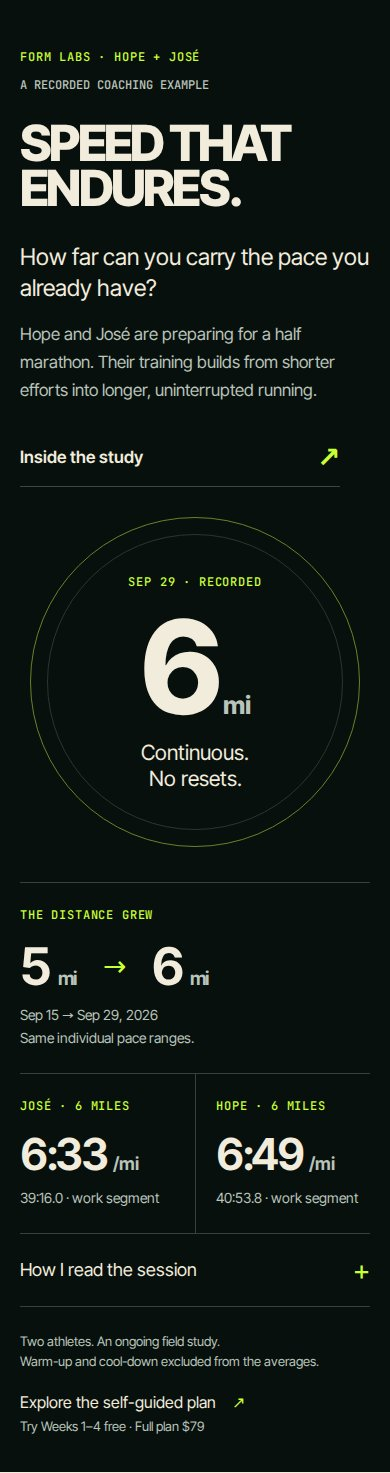
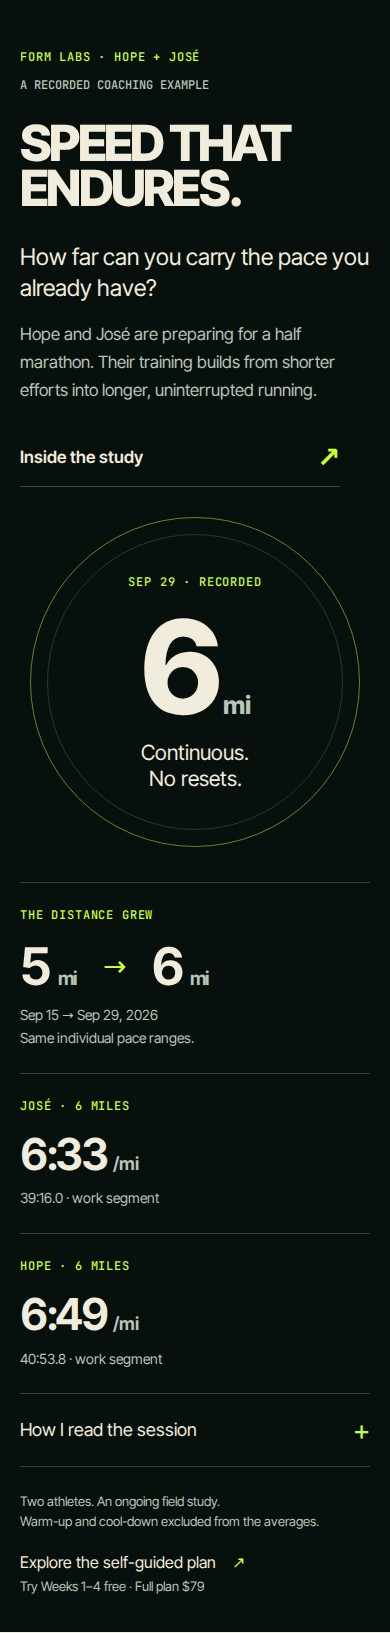
Keep study records readable at enlarged text sizes

diff --git a/index.html b/index.html
@@ -185,7 +185,7 @@
 <section class="home-study" id="study-preview" aria-labelledby="home-study-title">
 <div class="wrap">
 <div class="study-top"><p class="study-label">FORM LABS · HOPE + JOSÉ</p><p class="study-label study-date">A recorded coaching example</p></div>
-<div class="study-main"><div class="study-intro"><h2 id="home-study-title">SPEED THAT<br>ENDURES.</h2><p>How far can you carry the pace you already have?</p><p class="study-summary">Hope and José are preparing for a half marathon. Their training builds from shorter efforts into longer, uninterrupted running.</p><a class="study-link" href="/labs/speed-that-endures/">Inside the study <span aria-hidden="true">↗</span></a></div>
+<div class="study-main"><div class="study-intro"><h2 id="home-study-title">SPEED THAT<br>EN&shy;DURES.</h2><p>How far can you carry the pace you already have?</p><p class="study-summary">Hope and José are preparing for a half marathon. Their training builds from shorter efforts into longer, uninterrupted running.</p><a class="study-link" href="/labs/speed-that-endures/">Inside the study <span aria-hidden="true">↗</span></a></div>
 <div class="study-distance"><div class="distance-ring"><p class="study-label">SEP 29 · RECORDED</p><p class="distance-number">6<span>mi</span></p><p class="distance-caption">Continuous.<br>No resets.</p></div></div></div>
 <div class="study-record" aria-label="Recorded progression and September 29 work averages">
 <div class="study-progression"><p class="study-label">THE DISTANCE GREW</p><div class="progression-numbers"><span>5 <small>mi</small></span><b aria-hidden="true">→</b><span>6 <small>mi</small></span></div><p>Sep 15 → Sep 29, 2026<br>Same individual pace ranges.</p></div>

diff --git a/css/home-commercial.css b/css/home-commercial.css
@@ -46,3 +46,8 @@
 .practice-photo img{aspect-ratio:4/5;object-fit:cover;object-position:60% 50%}
 .home-field{background:var(--bone);padding:88px 0}.home-field-heading{display:flex;justify-content:space-between;gap:35px;align-items:end;margin-bottom:35px}.home-field h2{font-size:clamp(50px,6vw,86px);font-weight:800;line-height:.94;letter-spacing:-.055em;margin-top:18px}.home-field-photos{display:grid;grid-template-columns:1.4fr 1fr;gap:28px;align-items:end}.home-field img{display:block;width:100%;height:auto}.home-field figcaption{font:500 12px/1.6 var(--mono);color:var(--body);margin-top:13px}.home-field .text-link{min-height:44px}
 @media(max-width:700px){.home-field{padding:58px 0}.home-field-heading{display:block}.home-field-heading>a{display:inline-flex;align-items:center;margin-top:20px}.home-field-photos{grid-template-columns:1fr;gap:28px}.practice-title h2,.coach h2,.coaching-options h2,.home-strength h2,.home-more h2{font-size:clamp(40px,10.7vw,58px)}}
+
+/* Preserve complete pace values when text is enlarged. */
+.distance-ring{padding:24px 12px;min-height:min-content}.study-intro h2{hyphens:manual}.athlete-pace{white-space:nowrap}
+@media(max-width:700px){.study-record{grid-template-columns:1fr}.study-record>div{border-left:0!important;padding-left:0!important}.study-record>div:not(:last-child){border-bottom:1px solid #344239}}
+@media(max-width:700px){.distance-ring{aspect-ratio:auto;min-height:330px}.distance-ring>p{flex-shrink:0}}

diff --git a/docs/audits/PUBLIC-EDITORIAL-20261001.md b/docs/audits/PUBLIC-EDITORIAL-20261001.md
@@ -11,7 +11,7 @@ Seven photographs were chosen from 74 archive entries (69 unique images). Source
 - Homepage release/metadata, commercial release, coaching copy, community schedule, athlete access, method, coaching measurement and cream-reading source suites passed.
 - Exact configured build: cream-reading, six commercial pages and SF identity generators succeeded in an isolated source export. Historical guide receipts preserved; a separate later Miami photo receipt owns the current community source.
 - Built Chromium: 42 service views and six contact views at 375/390/430/768/1024/1440px; plan ordering, enlarged 200% text, inquiry selection/focus, failure/retry/idempotency, accepted-only measurement and QA write guards passed. All requests fulfilled locally or explicitly mocked; no live inquiries submitted.
-- Homepage study checked at all six widths, reduced motion and enlarged study text. Native disclosure opens with keyboard Enter and links to the recorded session/coaching decision.
+- Homepage study checked at all six widths, reduced motion and enlarged study text. Native disclosure opens with keyboard Enter and links to the recorded session/coaching decision. Visual enlarged-text review led to full-width phone data rows, intact pace values and a content-sized distance graphic.
 - Actual source layouts inspected at desktop and phone: running hero crop, practice photo, field sequence, study/data alignment, strength heading and photography sequence. Review images in `20261001-editorial/`.
 - Axe WCAG A/AA/2.1 AA checks on nine changed routes: zero reported violations after correcting an existing low-contrast decorative THU label on Run Miami. Automated checks do not replace physical-device review.
 - Production publication and CI evidence pending below. Physical phone review remains open.
